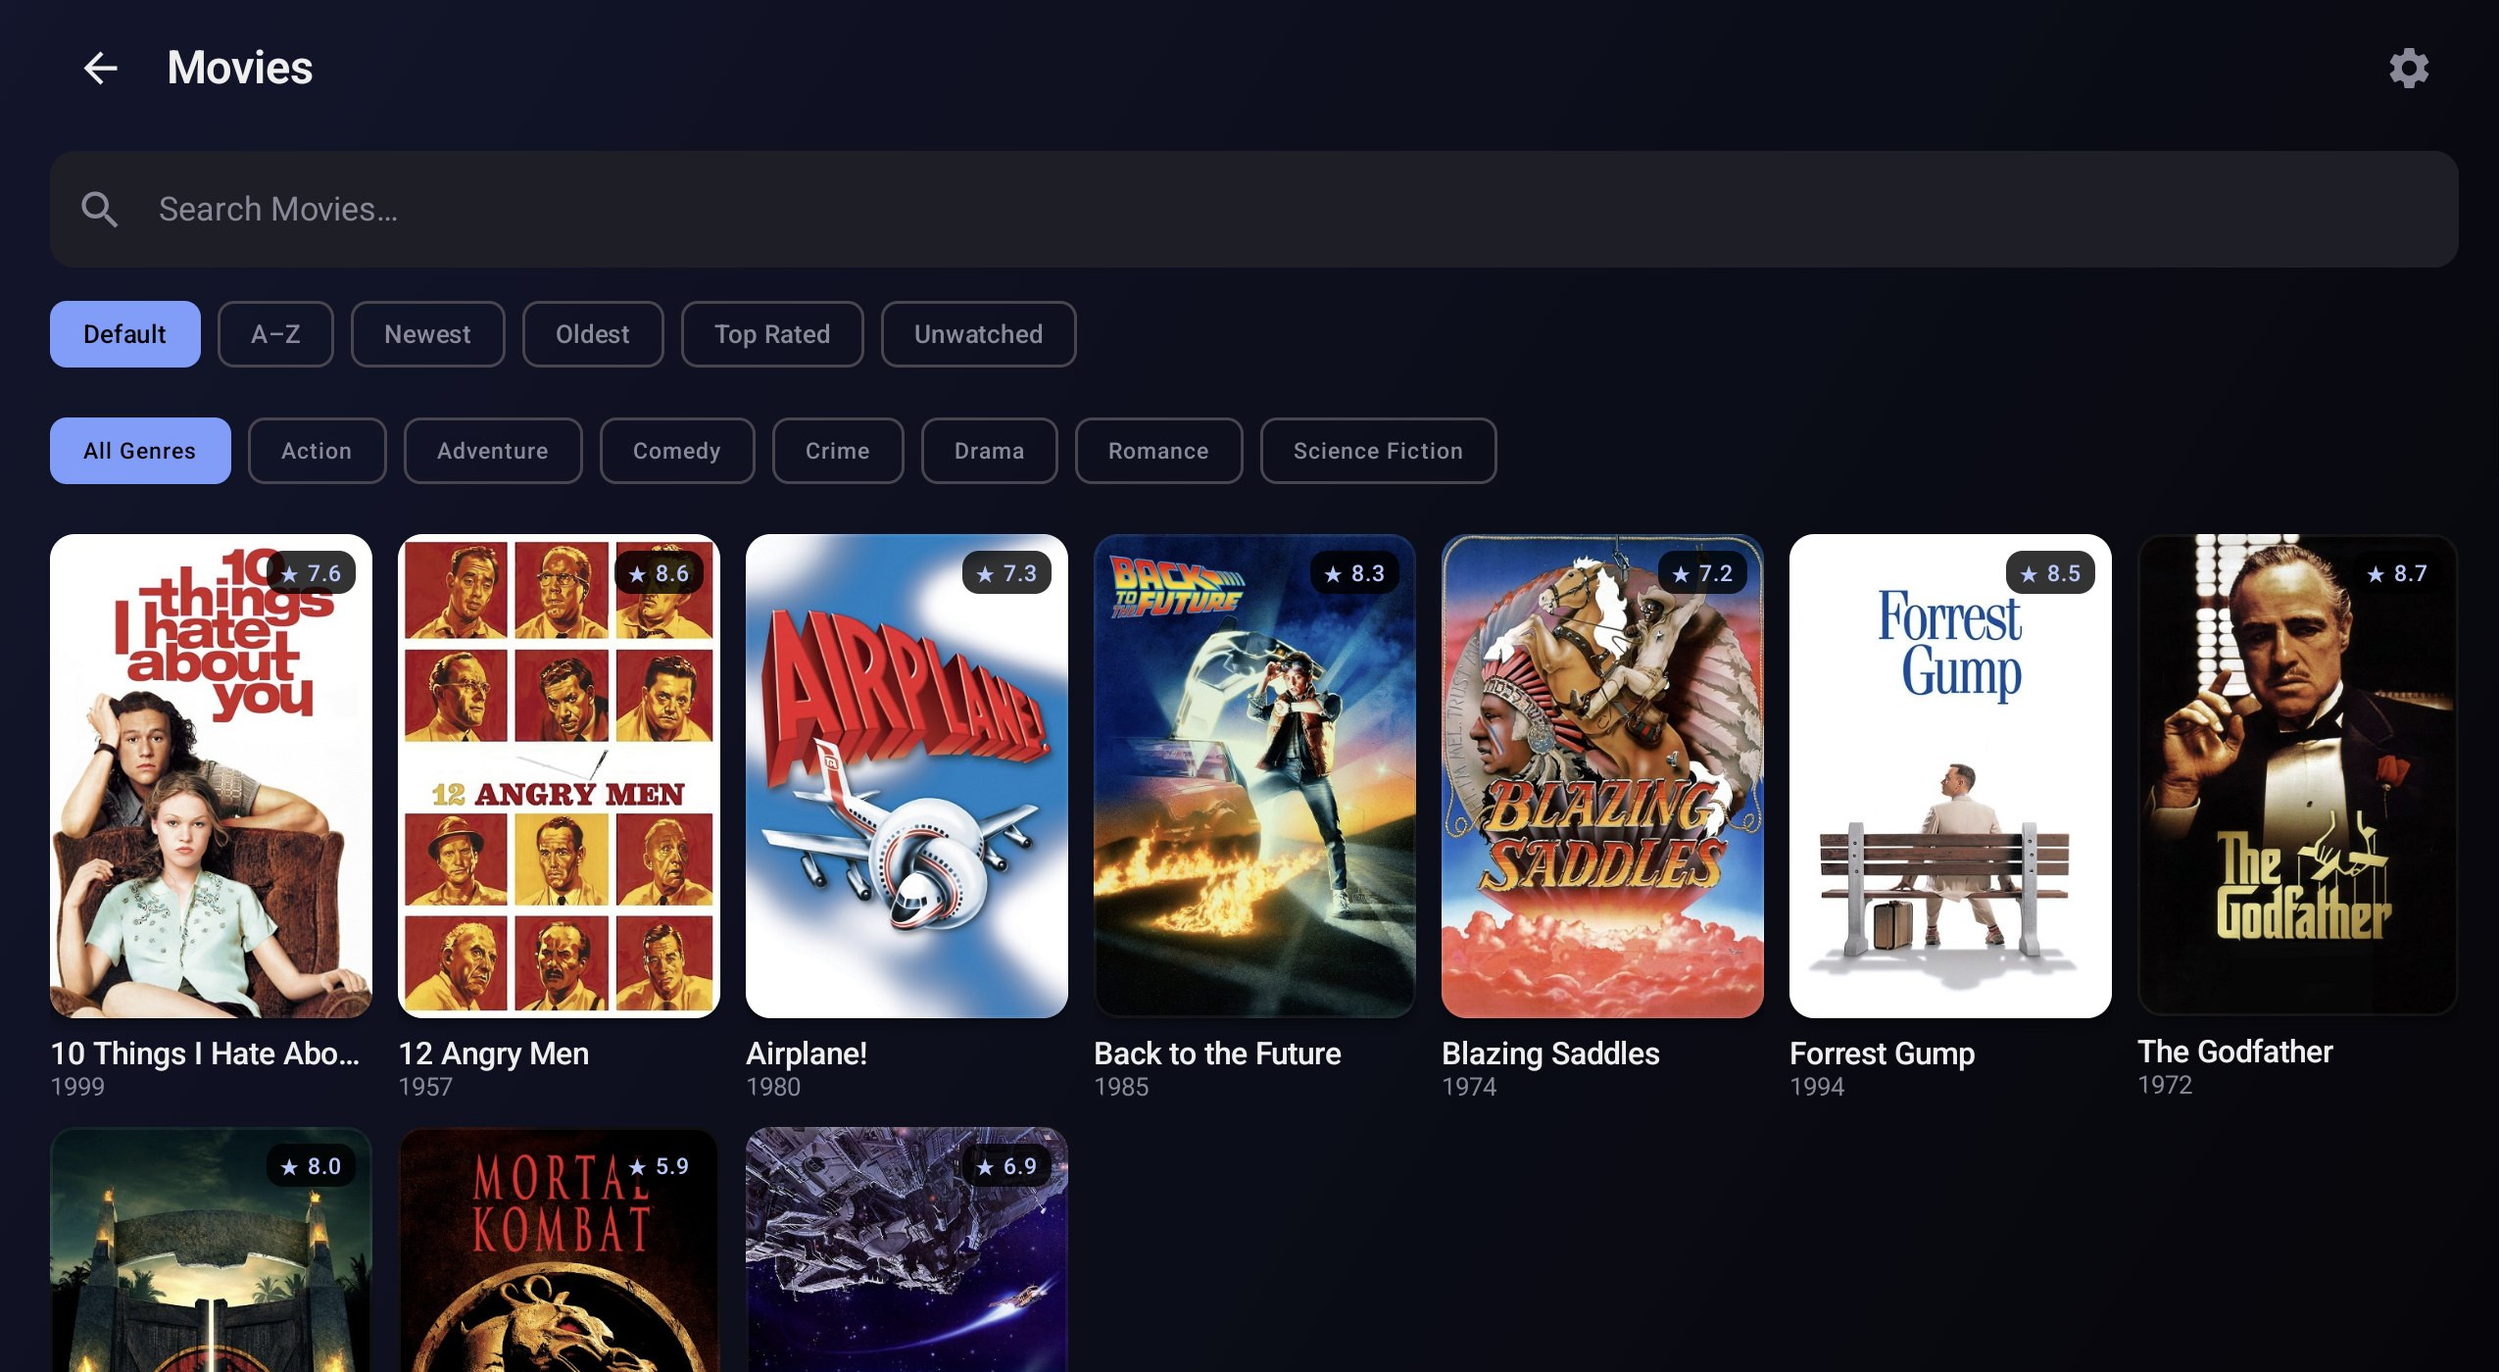
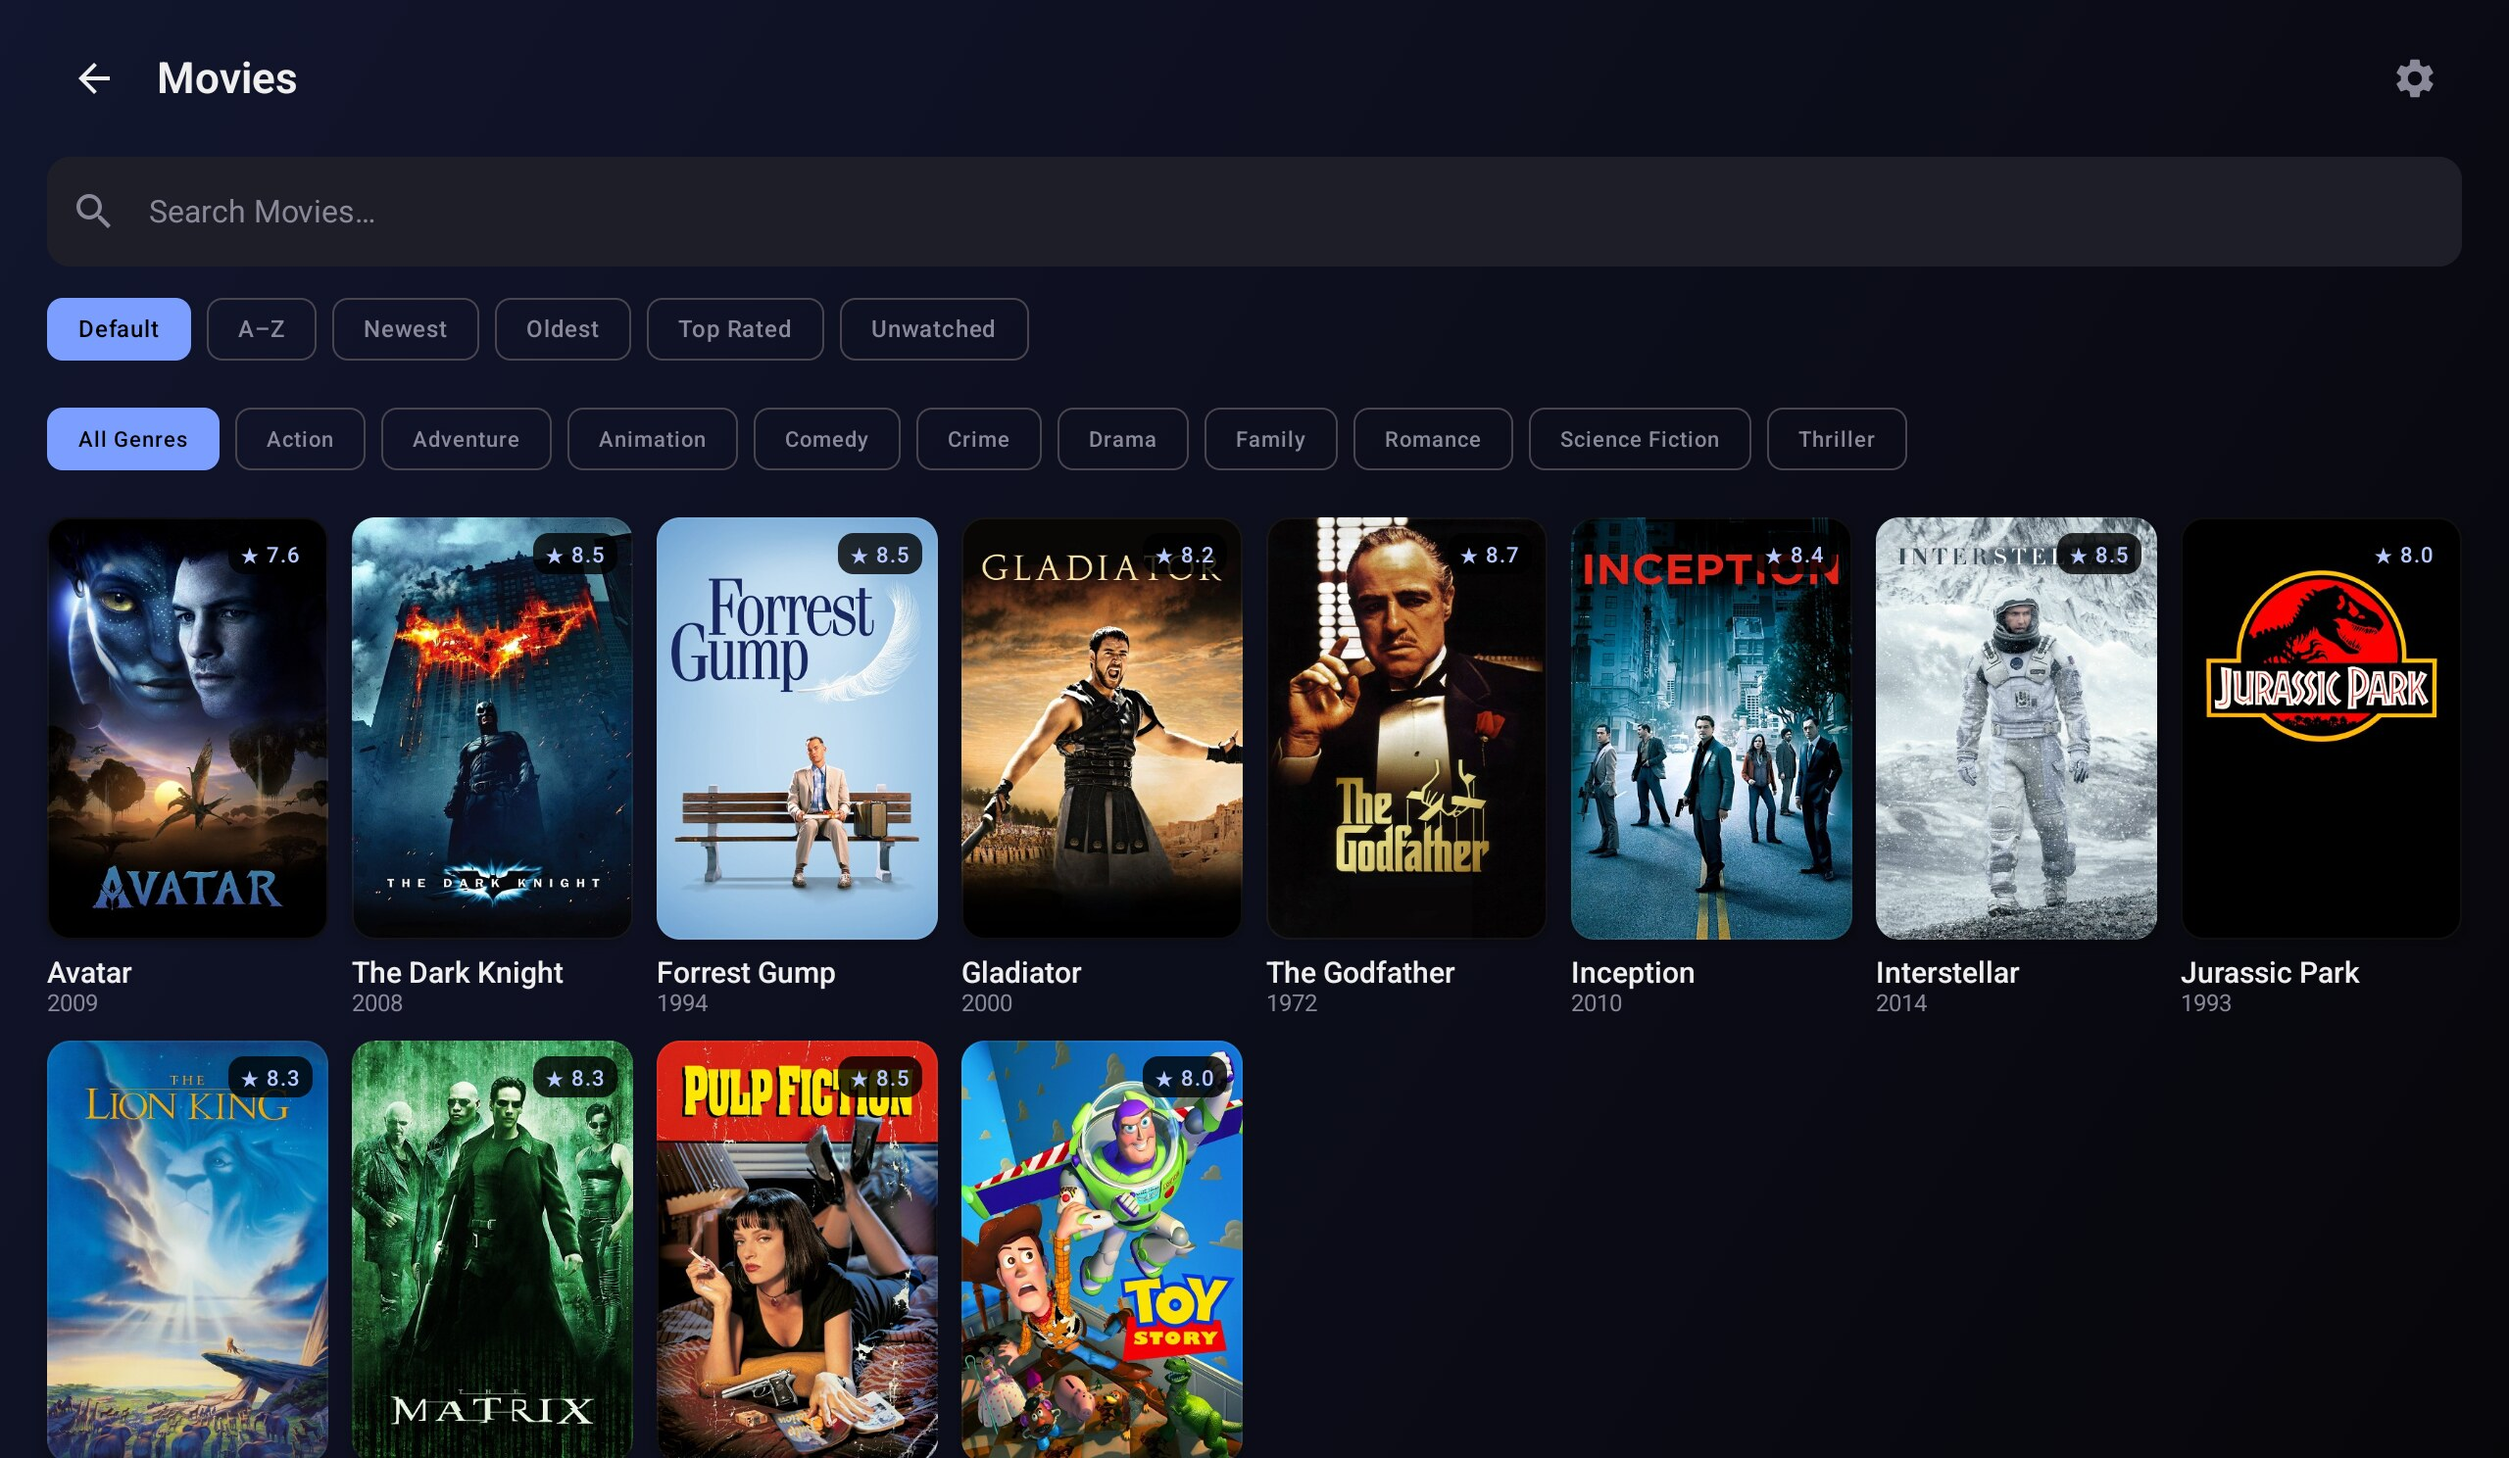
Refresh app screenshots and restructure README gallery
Retake the app screenshots against a demo library with complete
metadata (runtimes, resolution/audio chips, Continue Watching progress)
and crop the system bars. The README now leads with the home screen and
two detail pages, with browsing, settings and storage/Press collapsed.

diff --git a/README.md b/README.md
@@ -5,26 +5,35 @@ transcoded local copies.
 
 ## Screenshots
 
+<img src="screenshots/jellyjar/homescreen.jpg" width="100%" alt="Home screen with Continue Watching, Recently Added and library tiles">
+
 <table>
 <tr>
 <td width="50%">
 
-**Home**
-<img src="screenshots/jellyjar/homescreen.jpg" width="100%">
+**Movie Detail** — play, favorite, mark watched or download
+<img src="screenshots/jellyjar/movie-detail.jpg" width="100%">
 
 </td>
 <td width="50%">
 
-**Movies**
-<img src="screenshots/jellyjar/movies.jpg" width="100%">
+**Season Detail** — per-episode play and download, plus a Play/Resume button for the next episode
+<img src="screenshots/jellyjar/tvshow-seasondetail.jpg" width="100%">
 
 </td>
 </tr>
+</table>
+
+<details>
+<summary><b>Browsing</b> — library grids, series and episode pages</summary>
+<br>
+
+<table>
 <tr>
 <td width="50%">
 
-**Movie Detail**
-<img src="screenshots/jellyjar/movie-detail.jpg" width="100%">
+**Movies** — server-side search, sort and genre filters
+<img src="screenshots/jellyjar/movies.jpg" width="100%">
 
 </td>
 <td width="50%">
@@ -43,35 +52,30 @@ transcoded local copies.
 </td>
 <td width="50%">
 
-**Season Detail**
-<img src="screenshots/jellyjar/tvshow-seasondetail.jpg" width="100%">
-
-</td>
-</tr>
-<tr>
-<td width="50%">
-
 **Episode Detail**
 <img src="screenshots/jellyjar/tvshow-episodedetail.jpg" width="100%">
 
 </td>
-<td width="50%">
-
-**Storage Management**
-<img src="screenshots/jellyjar/storage.jpg" width="100%">
-
-</td>
 </tr>
+</table>
+
+</details>
+
+<details>
+<summary><b>Settings</b> — connection, downloads, playback and Kid Mode</summary>
+<br>
+
+<table>
 <tr>
 <td width="50%">
 
-**Settings — Jellyfin Connection**
+**Jellyfin Connection**
 <img src="screenshots/jellyjar/settings.jpg" width="100%">
 
 </td>
 <td width="50%">
 
-**Settings — Downloads & Home Screen**
+**Downloads & Home Screen**
 <img src="screenshots/jellyjar/settings2.jpg" width="100%">
 
 </td>
@@ -79,8 +83,28 @@ transcoded local copies.
 <tr>
 <td width="50%">
 
-**Settings — Playback & PIN**
+**Playback & Kid Mode**
 <img src="screenshots/jellyjar/settings3.jpg" width="100%">
+
+</td>
+<td width="50%">
+
+</td>
+</tr>
+</table>
+
+</details>
+
+<details>
+<summary><b>Storage and Press</b></summary>
+<br>
+
+<table>
+<tr>
+<td width="50%">
+
+**Storage Management**
+<img src="screenshots/jellyjar/storage.jpg" width="100%">
 
 </td>
 <td width="50%">
@@ -91,6 +115,8 @@ transcoded local copies.
 </td>
 </tr>
 </table>
+
+</details>
 
 ## Architecture
 
